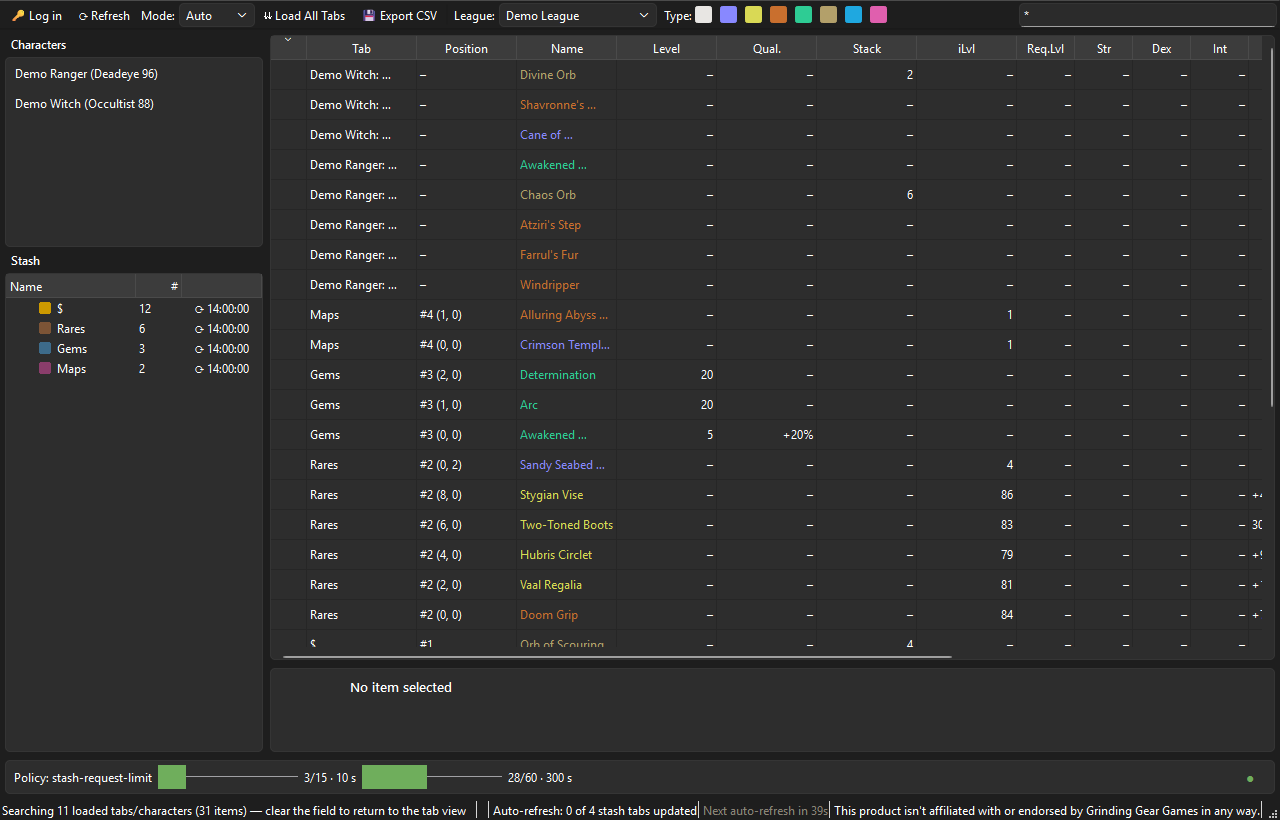
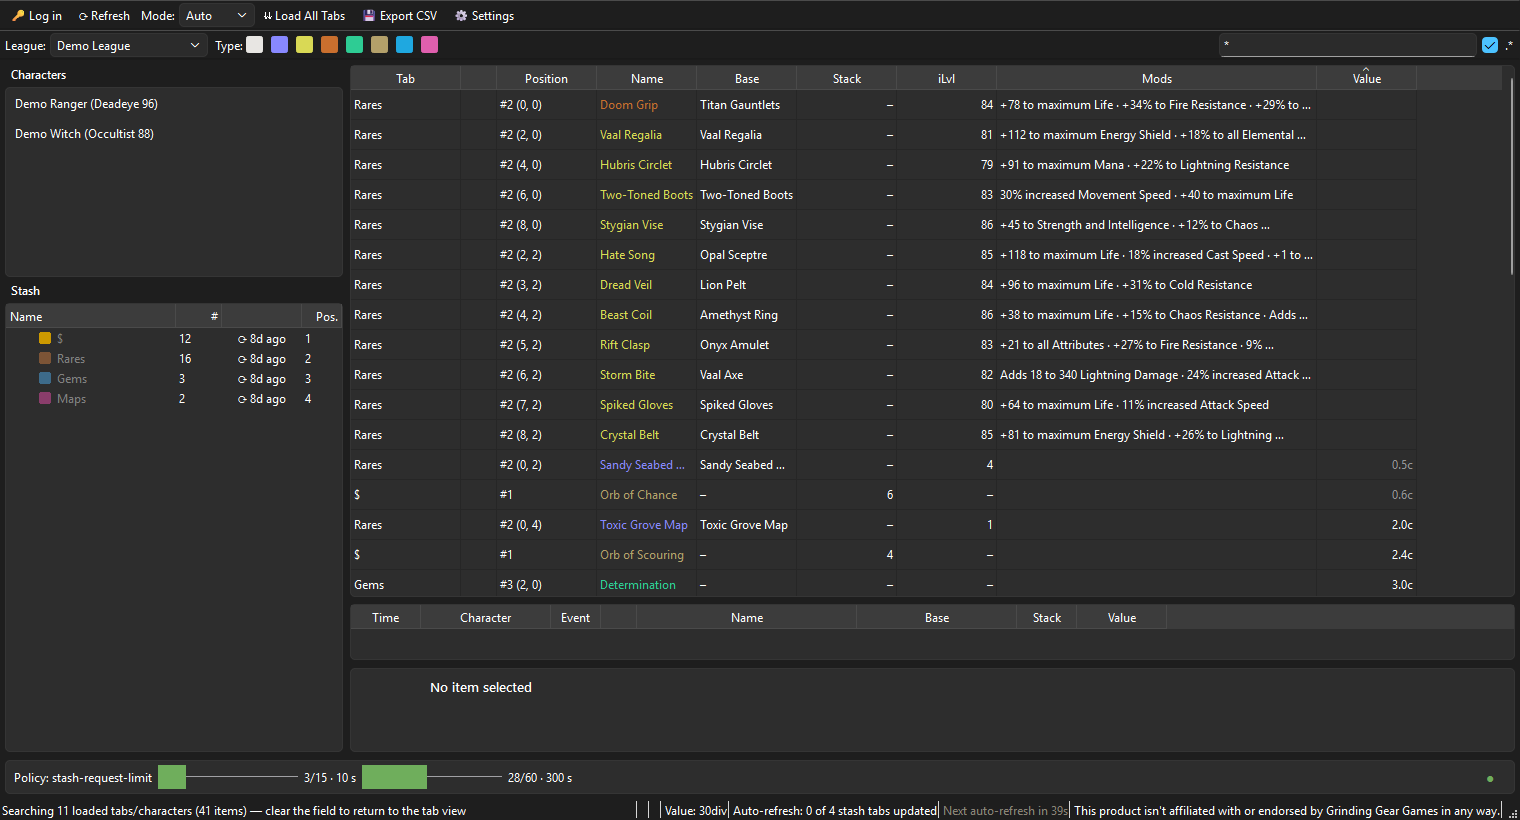
Screenshots auf 0.3.0-Stand, dritter zeigt Refresh-Diff und Item-Verlauf
Die beiden bisherigen Bilder stammten vom 26.07. und zeigten weder die
Value-Spalte noch das Verlaufs-Panel. Neu erzeugt, weiterhin komplett
synthetische Demo-Daten (kein echter Account, keine echten Item- oder
Charakternamen).

- uebersicht.png: Value-Spalte jetzt im Bild (dafuer 1520px breit und
  ohne die schmalen Attribut-Spalten -- reine Screenshot-Konfiguration,
  nicht die Voreinstellung der App).
- item-details.png: 16 statt 6 Items, die Tabelle wirkte vorher leer.
- charakter-verlauf.png (neu): Charakter-Inventar nach einem Refresh mit
  tuerkisen und grau durchgestrichenen Zeilen, darunter der aufgezogene
  Item-Verlauf.

Dabei aufgefallen: die Verlaufs-Tabelle hatte ueberall Qts Vorgabe von
100px -- breite leere Icon- und Event-Spalten, waehrend lange Item-Namen
abgeschnitten wurden. Breiten jetzt wie bei der Item-Tabelle von Hand
vergeben.

diff --git a/poe_view/ui/main_window.py b/poe_view/ui/main_window.py
@@ -45,7 +45,15 @@ from poe_view.ui.item_table import (COLUMNS, CONFIGURABLE_COLUMNS, ICON_COL,
                                     VALUE_COL, ItemFilterProxy, ItemTableModel,
                                     compile_search, format_chaos_value,
                                     matches_search)
-from poe_view.ui.item_history import HistoryEntry, ItemHistoryModel
+from poe_view.ui.item_history import (BASE_COL as HISTORY_BASE_COL,
+                                      CHARACTER_COL as HISTORY_CHARACTER_COL,
+                                      EVENT_COL as HISTORY_EVENT_COL,
+                                      ICON_COL as HISTORY_ICON_COL,
+                                      NAME_COL as HISTORY_NAME_COL,
+                                      STACK_COL as HISTORY_STACK_COL,
+                                      TIME_COL as HISTORY_TIME_COL,
+                                      VALUE_COL as HISTORY_VALUE_COL,
+                                      HistoryEntry, ItemHistoryModel)
 from poe_view.ui.item_zoom import ItemZoomDialog
 from poe_view.ui.paperdoll import PaperdollDialog
 from poe_view.ui.settings_dialog import SettingsDialog
@@ -525,6 +533,14 @@ class MainWindow(QMainWindow):
         self.history_table.setModel(self.history_model)
         self.history_table.setSelectionBehavior(QTableView.SelectionBehavior.SelectRows)
         self.history_table.verticalHeader().hide()
+        # Spaltenbreiten wie bei der Item-Tabelle von Hand: die Qt-Vorgabe
+        # (überall 100px) verschenkt Platz an Icon/Event und schneidet
+        # dafür lange Item-Namen ab ("Awakened Deadly Ailments Support").
+        for col, width in ((HISTORY_ICON_COL, 36), (HISTORY_TIME_COL, 70),
+                           (HISTORY_CHARACTER_COL, 130), (HISTORY_EVENT_COL, 50),
+                           (HISTORY_NAME_COL, 220), (HISTORY_BASE_COL, 160),
+                           (HISTORY_STACK_COL, 60), (HISTORY_VALUE_COL, 90)):
+            self.history_table.setColumnWidth(col, width)
         self.history_table.setContextMenuPolicy(Qt.ContextMenuPolicy.CustomContextMenu)
         self.history_table.customContextMenuRequested.connect(self._on_history_row_menu)
         self.history_table.doubleClicked.connect(self._on_history_row_double_clicked)

diff --git a/README.md b/README.md
@@ -15,11 +15,13 @@ The access token is stored in the Windows Credential Manager.
 
 ## Screenshots
 
-*Both screenshots show synthetic demo data, not a real account.*
+*All screenshots show synthetic demo data, not a real account.*
 
 League-wide search with `*`: stash tabs and characters appear together
 in one table, with the Tab column showing where each item came from.
-Type filters are above, the rate-limit dashboard below.
+Type filters are above, the rate-limit dashboard below. The Value column
+holds the poe.ninja price; the table starts sorted by it, cheapest
+first.
 
 ![League-wide search across tabs and characters](docs/screenshots/uebersicht.png)
 
@@ -27,6 +29,14 @@ A single stash tab with an item selected; its mods are shown in the
 detail panel below.
 
 ![Single tab with a selected item and its mods](docs/screenshots/item-details.png)
+
+A character inventory right after a refresh: rows that are new or
+changed are highlighted, items that disappeared stay visible for one
+cycle in grey and struck through. The panel underneath logs what moved
+through the inventory of every character — pulled open here, collapsed
+to a single line by default.
+
+![Character inventory with refresh highlighting and the item history](docs/screenshots/charakter-verlauf.png)
 
 ## Features
 
